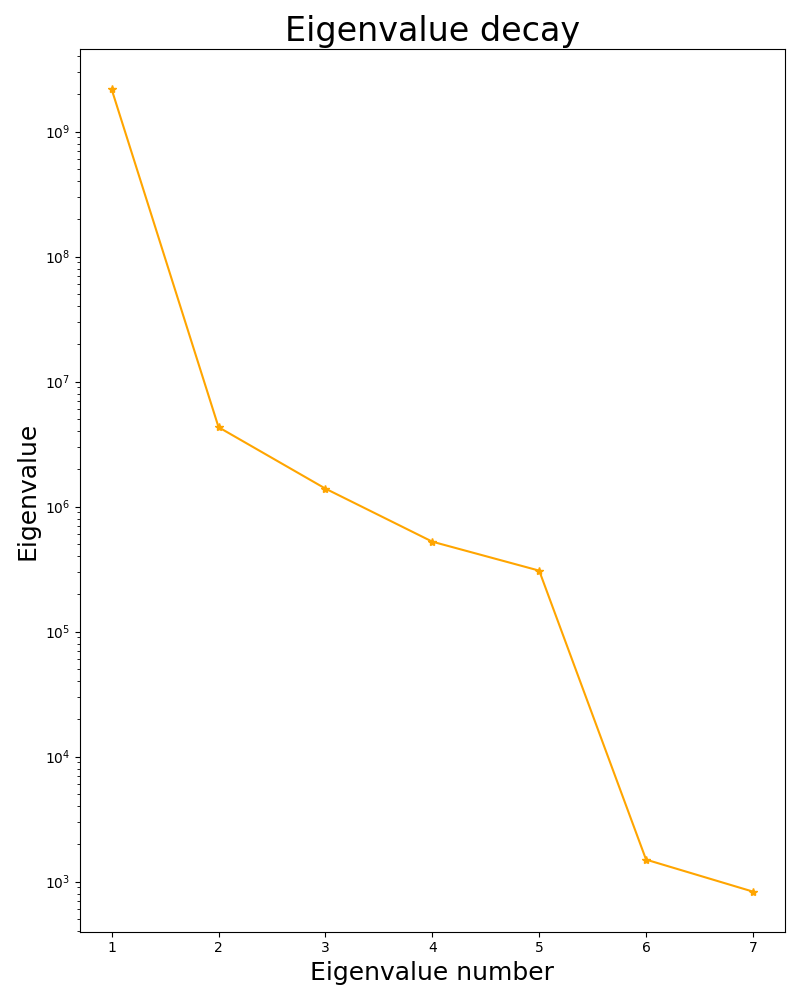
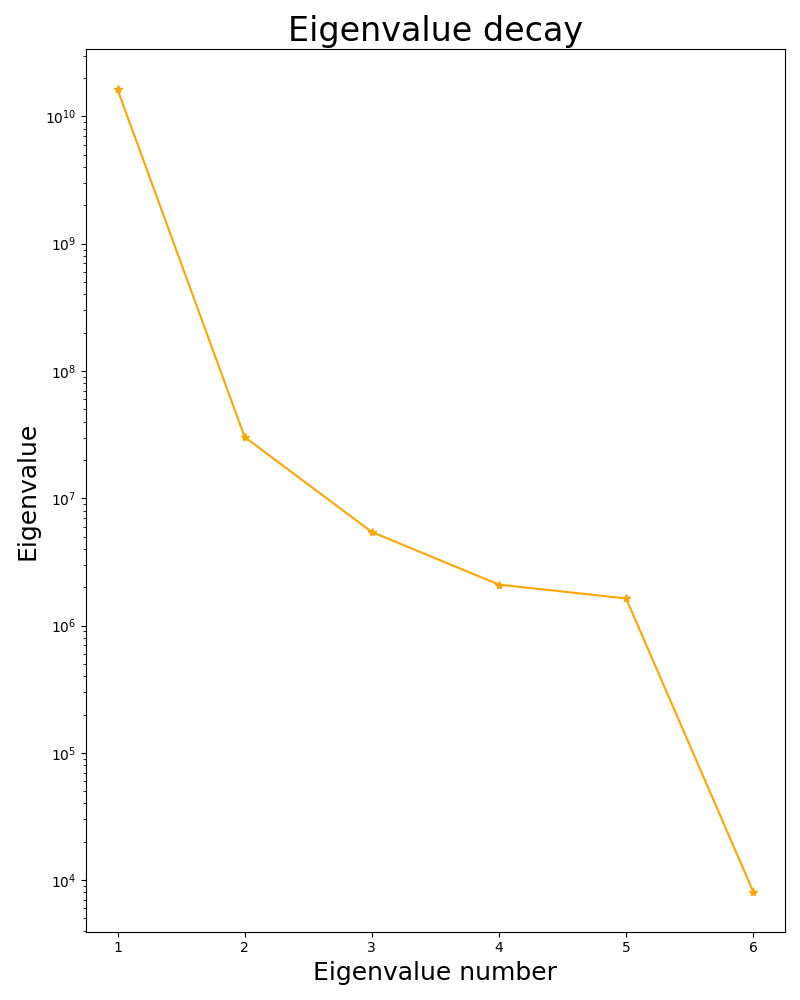
Thermomechanical benchmark done

diff --git a/demo/thermomechanical_dlrbnicsx_distributed/dlrbnicsx_thermomechanical_thermal_distributed.py b/demo/thermomechanical_dlrbnicsx_distributed/dlrbnicsx_thermomechanical_thermal_distributed.py
@@ -600,7 +600,7 @@ print(f"Solution norm at mu:{mu_ref}: {thermal_problem_parametric.inner_product_
 
 
 itemsize = MPI.DOUBLE.Get_size()
-num_snapshots = 2 * 2 * 2 * 2# 5 * 4 * 5 * 4
+num_snapshots = 5 * 4 * 3 * 2 # 5 * 4 * 5 * 4
 num_dofs = solution_mu.x.array.shape[0]
 para_dim = 4
 
@@ -613,7 +613,7 @@ else:
 
 # POD starts ###
 
-def generate_training_set(samples=[2, 2, 2, 2]):#(samples=[5, 4, 5, 4]):
+def generate_training_set(samples=[5, 4, 3, 2]):#(samples=[5, 4, 5, 4]):
     # Parameter tuple (D_0, D_1, t_0, t_1)
     training_set_0 = np.linspace(0.55, 0.75, samples[0])
     training_set_1 = np.linspace(0.35, 0.55, samples[1])
@@ -715,7 +715,7 @@ if world_comm.rank == 0:
 
 # ### ANN implementation ###
 
-def generate_ann_input_set(samples=[2, 2, 2, 2]):
+def generate_ann_input_set(samples=[2, 3, 4, 5]):#(samples=[4, 5, 4, 5]):
     # Parameter tuple (D_0, D_1, t_0, t_1)
     training_set_0 = np.linspace(0.55, 0.75, samples[0])
     training_set_1 = np.linspace(0.35, 0.55, samples[1])
@@ -745,7 +745,7 @@ def generate_ann_output_set(problem, reduced_problem, input_set,
     # return output_set
 
 
-num_ann_input_samples = 2 * 2 * 2 * 2
+num_ann_input_samples = 2 * 3 * 4 * 5 # 4 * 5 * 4 * 5
 num_ann_input_samples_training = int(0.7 * num_ann_input_samples)
 num_ann_input_samples_validation = \
     num_ann_input_samples - int(0.7 * num_ann_input_samples)
@@ -754,7 +754,7 @@ itemsize = MPI.DOUBLE.Get_size()
 
 if world_comm.rank == 0:
     ann_input_samples = generate_ann_input_set()
-    np.random.shuffle(ann_input_samples)
+    # np.random.shuffle(ann_input_samples)
     nbytes_para_ann_training = num_ann_input_samples_training * \
         itemsize * para_dim
     nbytes_dofs_ann_training = num_ann_input_samples_training * itemsize * \
@@ -857,7 +857,7 @@ thermal_customDataset = \
                              len(thermal_reduced_problem._basis_functions),
                              ann_input_samples_training,
                              ann_output_samples_training)
-thermal_train_dataloader = DataLoader(thermal_customDataset, batch_size=30,
+thermal_train_dataloader = DataLoader(thermal_customDataset, batch_size=1000,
                                       shuffle=True)
 
 thermal_customDataset = \
@@ -870,13 +870,14 @@ thermal_valid_dataloader = DataLoader(thermal_customDataset, shuffle=False)
 
 
 # ANN model
-#thermal_model = HiddenLayersNet(ann_input_training_set.shape[1], [40, 40, 40],
-#                        len(thermal_reduced_problem._basis_functions), Sigmoid())
-
-thermal_model = HiddenLayersNet(ann_input_samples_training.shape[1], [4, 4, 4],
+thermal_model = HiddenLayersNet(ann_input_samples_training.shape[1], [40, 40, 40],
                         len(thermal_reduced_problem._basis_functions), Sigmoid())
 
 model_synchronise(thermal_model, verbose=True)
+
+import torch
+# torch.save(thermal_model.state_dict(), "initial_thermal_model_state_dict.pth")
+thermal_model.load_state_dict(torch.load('initial_thermal_model_state_dict.pth'))
 
 # Training of ANN
 training_loss = list()
@@ -1012,3 +1013,6 @@ if world_comm.rank == 0:
 
     print(thermal_reduced_problem.norm_error(thermal_fem_solution, thermal_rb_solution))
     print(thermal_reduced_problem.compute_norm(thermal_error_function))
+
+    print(f"Error array: {thermal_relative_error}")
+    print(f"Eigenvalues: {eigenvalues}")
